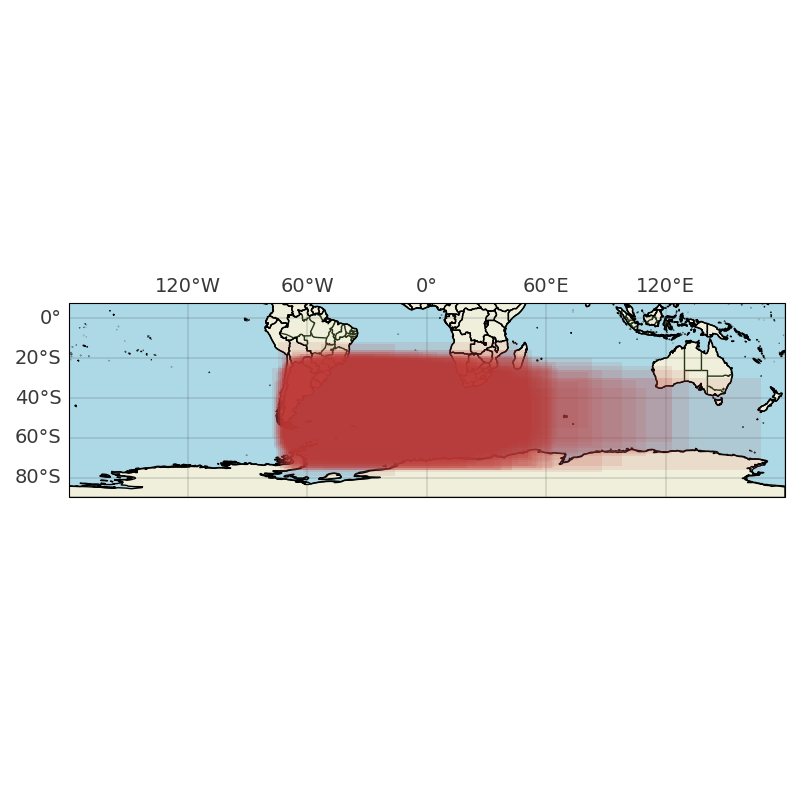
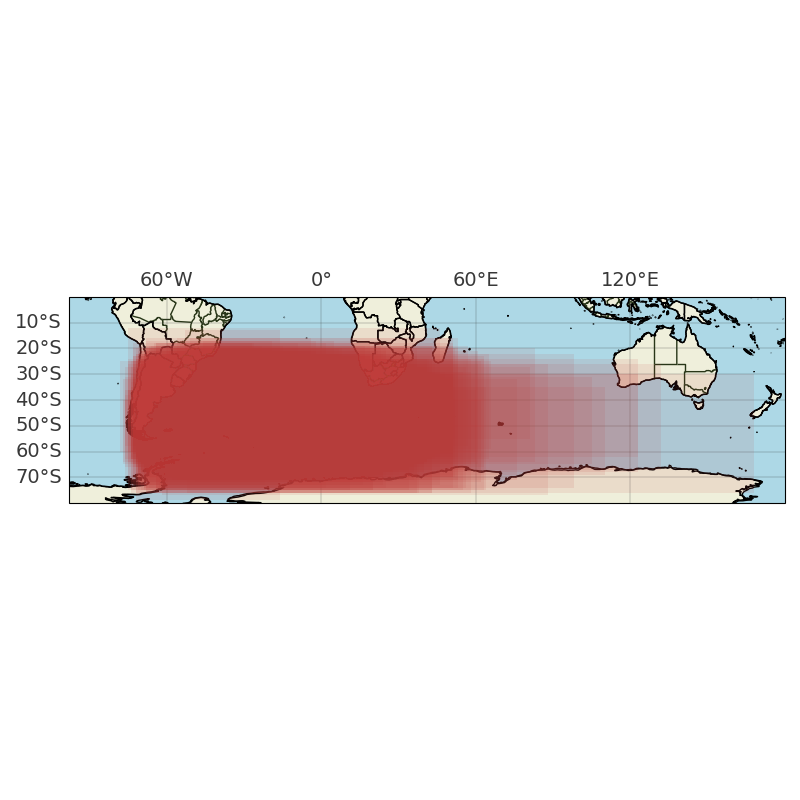
new figures

Changed region(s): [[0.0, 0.3438, 1.0, 0.6562]]

diff --git a/src_barotropic_instability/plot_tracks.py b/src_barotropic_instability/plot_tracks.py
@@ -1,0 +1,113 @@
+# **************************************************************************** #
+#                                                                              #
+#                                                         :::      ::::::::    #
+#    plot_tracks.py                                     :+:      :+:    :+:    #
+#                                                     +:+ +:+         +:+      #
+#    By: daniloceano <danilo.oceano@gmail.com>      +#+  +:+       +#+         #
+#                                                 +#+#+#+#+#+   +#+            #
+#    Created: 2024/05/06 15:56:01 by daniloceano       #+#    #+#              #
+#    Updated: 2024/05/06 16:13:39 by daniloceano      ###   ########.fr        #
+#                                                                              #
+# **************************************************************************** #
+
+import os
+import pandas as pd
+import matplotlib.pyplot as plt
+import seaborn as sns
+import numpy as np
+from glob import glob
+
+import cartopy
+import cartopy.crs as ccrs
+from shapely.geometry.polygon import Polygon
+import cartopy.feature as cfeature
+from cartopy.feature import NaturalEarthFeature, COASTLINE
+from cartopy.feature import BORDERS
+
+FILTERED_TRACKS = os.path.abspath('../tracks_SAt_filtered/tracks_SAt_filtered_with_periods.csv') # Path to filtered tracks
+COLORS = ['#3B95BF', '#87BF4B', '#BFAB37', '#BF3D3B', '#873e23', '#A13BF0']
+MARKERS = ['s', 'o', '^', 'v', '<', '>']
+MARKER_COLORS = ['#59c0f0', '#b0fa61', '#f0d643', '#f75452', '#f07243', '#bc6ff7']
+LINESTYLE = '-'
+LINEWIDTH = 3
+TEXT_COLOR = '#383838'
+MARKER_EDGE_COLOR = 'grey'
+LEGEND_FONT_SIZE = 10
+AXIS_LABEL_FONT_SIZE = 12
+TITLE_FONT_SIZE = 18
+
+def setup_gridlines(ax):
+    gl = ax.gridlines(draw_labels=True, zorder=2, linestyle='-', alpha=0.8, color=TEXT_COLOR, linewidth=0.25)
+    gl.xlabel_style = {'size': 14, 'color': TEXT_COLOR}
+    gl.ylabel_style = {'size': 14, 'color': TEXT_COLOR}
+    gl.bottom_labels = None
+    gl.right_labels = None
+
+def setup_map(ax):
+    ax.coastlines(zorder=1)
+    # ax.add_feature(cartopy.feature.LAND)
+    # ax.add_feature(cartopy.feature.OCEAN, facecolor="lightblue")
+
+def map_borders(ax):
+    # Add land feature (no facecolor)
+    ax.add_feature(cfeature.NaturalEarthFeature('physical', 'land', '50m', edgecolor='face', facecolor='none'))
+
+    # Add state borders
+    states = NaturalEarthFeature(category='cultural', scale='50m', facecolor='none', name='admin_1_states_provinces_lines')
+    ax.add_feature(states, edgecolor='#283618', linewidth=1)
+
+    # Add populated places (cities)
+    cities = NaturalEarthFeature(category='cultural', scale='50m', facecolor='none', name='populated_places')
+    ax.add_feature(cities, edgecolor='#283618', linewidth=1)
+
+    # Add country borders
+    countries = NaturalEarthFeature(category='cultural', scale='50m', facecolor='none', name='admin_0_countries')
+    ax.add_feature(countries, edgecolor='black', linewidth=1)
+
+def plot_tracks(tracks_filtered_ids, figures_directory):
+    plt.close('all')
+    
+    min_lon, min_lat = tracks_filtered_ids['lon vor'].min(), tracks_filtered_ids['lat vor'].min()
+    max_lon, max_lat = tracks_filtered_ids['lon vor'].max(), tracks_filtered_ids['lat vor'].max()
+
+    min_lon_buff = min_lon - 20 if min_lon - 20 > -180 else -180
+    max_lon_buff = max_lon + 20 if max_lon + 20 < 180 else 180
+    min_lat_buff = min_lat - 20 if min_lat - 20 > -90 else -90
+    max_lat_buff = max_lat + 20 if max_lat + 20 < 90 else 90
+
+    fig, ax = plt.subplots(figsize=(8, 8), subplot_kw={'projection': ccrs.PlateCarree()})
+    ax.set_extent([min_lon_buff, max_lon_buff, min_lat_buff, max_lat_buff], crs=ccrs.PlateCarree())
+    map_borders(ax)
+    setup_map(ax)
+    setup_gridlines(ax)
+
+    for i, track_id in enumerate(tracks_filtered_ids['track_id'].unique()):
+        track = tracks_filtered_ids[tracks_filtered_ids['track_id'] == track_id]
+        region = track['region'].unique()[0]
+        if region == 'ARG':
+            color = COLORS[3]
+        elif region == 'LA-PLATA':
+            color = COLORS[1]
+        elif region == 'SE-BR':
+            color = COLORS[0]
+        plt.plot(track['lon vor'], track['lat vor'], color=color, linewidth=2, alpha=0.5)
+
+    plt.tight_layout()
+    
+    os.makedirs(figures_directory, exist_ok=True)
+    fig.savefig(os.path.join(figures_directory, f'tracks.png'))
+    print('Figure saved in directory: {}'.format(figures_directory))
+    
+
+def main():
+    # Get ids of systems that will be analysed
+    system_ids = pd.read_csv('systems_to_be_analysed.txt', header=None).values.flatten().tolist()
+
+    tracks = pd.read_csv(FILTERED_TRACKS)
+    tracks_filtered_ids = tracks[tracks['track_id'].isin(system_ids)]
+
+    plot_tracks(tracks_filtered_ids, '../figures_barotropic_baroclinic_instability/')
+
+
+if __name__ == '__main__':
+    main()

diff --git a/src_test_fixed_x_mobile_domain/plot_boxes.py b/src_test_fixed_x_mobile_domain/plot_boxes.py
@@ -6,7 +6,7 @@
 #    By: daniloceano <danilo.oceano@gmail.com>      +#+  +:+       +#+         #
 #                                                 +#+#+#+#+#+   +#+            #
 #    Created: 2024/05/06 15:55:30 by daniloceano       #+#    #+#              #
-#    Updated: 2024/05/06 15:55:31 by daniloceano      ###   ########.fr        #
+#    Updated: 2024/05/06 16:07:44 by daniloceano      ###   ########.fr        #
 #                                                                              #
 # **************************************************************************** #
 
@@ -72,7 +72,12 @@ def plot_box_limits(df_boxes, figures_directory, plot_mean=True):
     min_lon, min_lat = df_boxes['min_lon'].min(), df_boxes['min_lat'].min()
     max_lon, max_lat = df_boxes['max_lon'].max(), df_boxes['max_lat'].max()
 
-    ax.set_extent([min_lon-20, max_lon+20, max_lat+20, min_lat-20], crs=ccrs.PlateCarree())
+    min_lon_buff = min_lon - 20 if min_lon - 20 > -180 else -180
+    max_lon_buff = max_lon + 20 if max_lon + 20 < 180 else 180
+    min_lat_buff = min_lat - 20 if min_lat - 20 > -80 else -80
+    max_lat_buff = max_lat + 20 if max_lat + 20 < 0 else 0
+
+    ax.set_extent([min_lon_buff, max_lon_buff, min_lat_buff, max_lat_buff], crs=ccrs.PlateCarree())
     map_borders(ax)
     setup_map(ax)
     setup_gridlines(ax)
